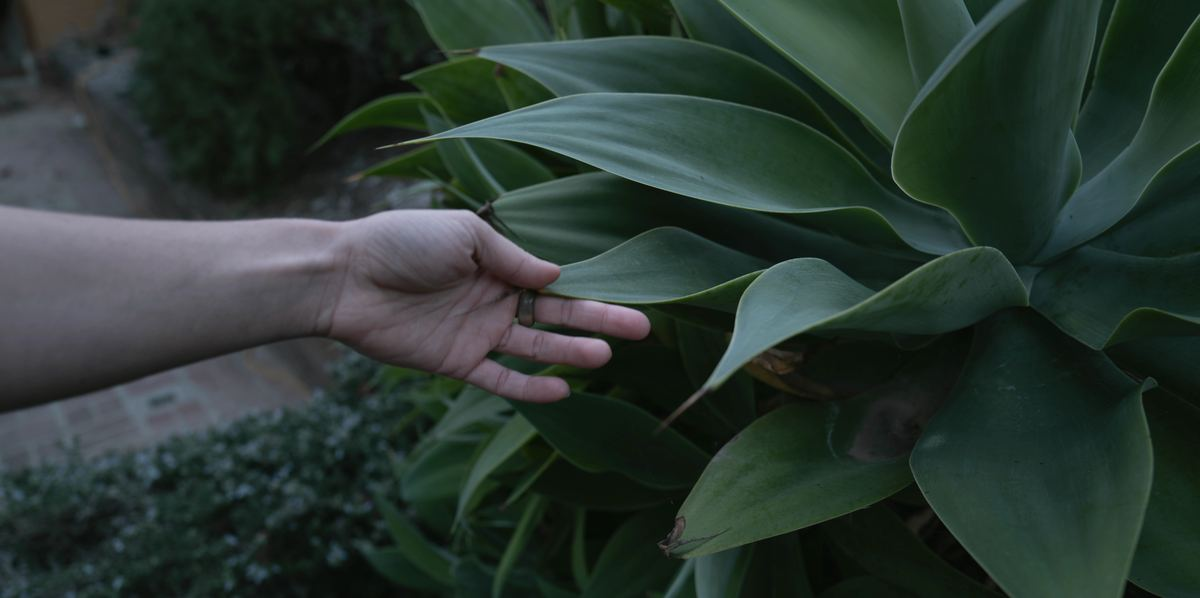
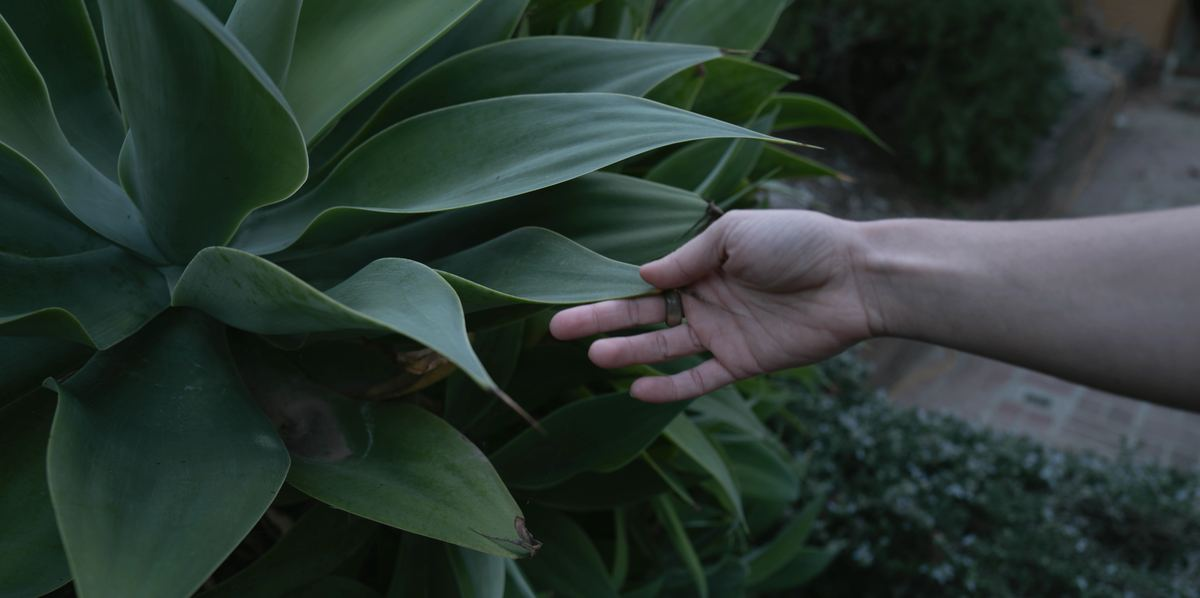
Homepage discovery step: warmer line; mirror aloe photo so the hand enters from the right
Claude-Session: https://claude.ai/code/session_01JjgWRQvmFuwo9TCvdizE1X

diff --git a/index.html b/index.html
@@ -131,7 +131,7 @@
         <div class="step">
           <span class="step-num">01</span>
           <h3>Discovery call</h3>
-          <p>A free 20-minute call to talk about where you are, what you want, and whether we're a fit. No pressure, no pitch.</p>
+          <p>A free 20-minute call to talk about where you are and what you want, and explore what feels right to you.</p>
         </div>
         <div class="step">
           <span class="step-num">02</span>

diff --git a/styles.css b/styles.css
@@ -317,7 +317,7 @@
 .photo-band picture, .photo-band img{ display:block; width:100%; height:100%; }
 .photo-band img{ object-fit:cover; object-position:47% 45%; }
 .photo-band--rosemary img{ object-position:50% 58%; }
-.photo-band--aloe img{ object-position:55% 50%; }
+.photo-band--aloe img{ object-position:45% 50%; }
 .photo-band--garden img{ object-position:50% 45%; }
 
 /* ---------- full-width video band ---------- */
